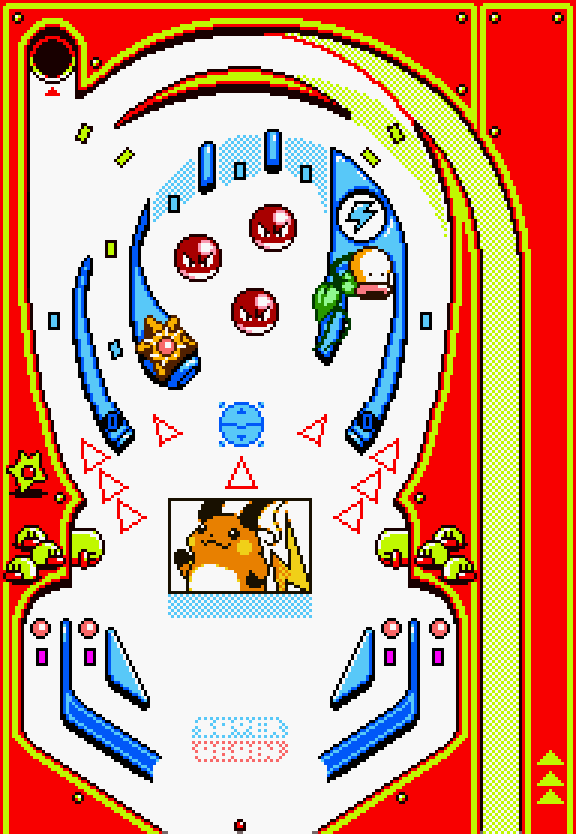
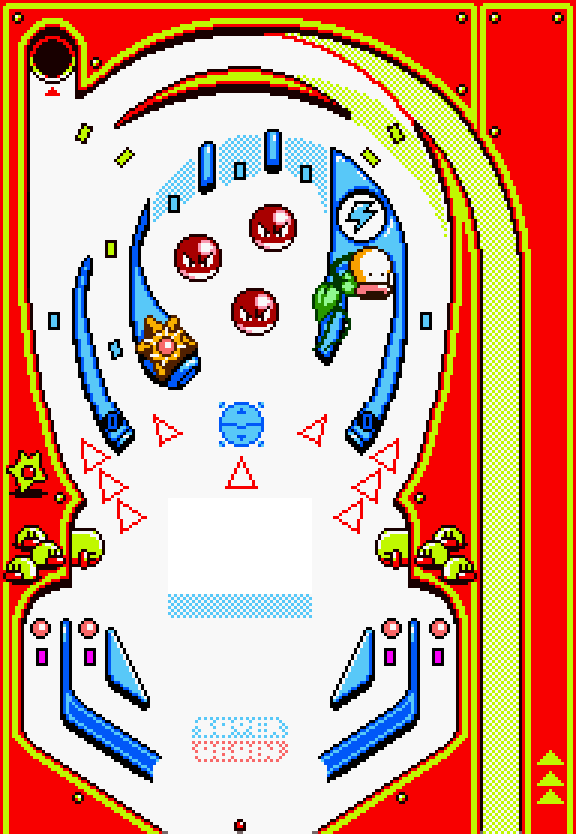
Some animations added

Changed region(s): [[0.2812, 0.5923, 0.5625, 0.717]]

diff --git a/ModuleSceneIntro.cpp b/ModuleSceneIntro.cpp
@@ -12,7 +12,7 @@
 
 ModuleSceneIntro::ModuleSceneIntro(Application* app, bool start_enabled) : Module(app, start_enabled)
 {
-	pinball_tex = dugtrio_tex = NULL;
+	pinball_tex = dugtrio_tex = pikachu_tex = starmie_tex = panel_bor_tex = panel_tex = NULL;
 	ray_on = false;
 	sensed = false;
 }
@@ -37,6 +37,10 @@ bool ModuleSceneIntro::Start()
 	//Loading Textures
 	pinball_tex = App->textures->Load("pinball/images/Pinball.png");
 	dugtrio_tex = App->textures->Load("pinball/images/dugtrio.png");
+	pikachu_tex = App->textures->Load("pinball/images/pikachu.png");
+	starmie_tex = App->textures->Load("pinball/images/starmie.png");
+	panel_bor_tex = App->textures->Load("pinball/images/border.png");
+	panel_tex = App->textures->Load("pinball/images/Panel.png");
 	
 	//Adding Animations
 	AddAnimations();
@@ -61,6 +65,10 @@ bool ModuleSceneIntro::CleanUp()
 
 	App->textures->Unload(dugtrio_tex);
 	App->textures->Unload(pinball_tex);
+	App->textures->Unload(pikachu_tex);
+	App->textures->Unload(starmie_tex);
+	App->textures->Unload(panel_bor_tex);
+	App->textures->Unload(panel_tex);
 
 	return true;
 }
@@ -99,6 +107,18 @@ update_status ModuleSceneIntro::Update()
 	//Left dugtrio animation
 	App->renderer->Blit(dugtrio_tex, 0, 500, &(Dugtrio_left.GetCurrentFrame()));
 
+	//Pikachu animation
+	App->renderer->Blit(pikachu_tex, 20, 780, &(Pikachu.GetCurrentFrame()));
+	App->renderer->Blit(pikachu_tex, 420, 780, &(Pikachu.GetCurrentFrame()));
+
+	//Starmie animation
+	App->renderer->Blit(starmie_tex, 0, 450, &(Starmie.GetCurrentFrame()));
+
+	//Panel Border Animation
+	App->renderer->Blit(panel_bor_tex, 168, 498, &(panel_border.GetCurrentFrame()));
+
+	//Panel Animation
+	App->renderer->Blit(panel_tex, 171, 501, &(panel.GetCurrentFrame()));
 	// ----------------------------------------------------------
 
 	// RESPAWN BALL	--------------------------------------------
@@ -158,5 +178,54 @@ void ModuleSceneIntro::AddAnimations()
 	Dugtrio_left.PushBack({ 225, 120, 69, 90 });
 	Dugtrio_left.loop = true;
 	Dugtrio_left.speed = 0.05f;
+
+	//Pikachu Animation
+	Pikachu.PushBack({   0, 0, 48, 48 });
+	Pikachu.PushBack({  54, 0, 42, 48 });
+	Pikachu.PushBack({ 102, 6, 45, 42 });
+	Pikachu.loop = true;
+	Pikachu.speed = 0.05f;
+
+	//Starmie Animation
+	Starmie.PushBack({ 0, 0, 54, 48 });
+	Starmie.PushBack({ 60, 0, 54, 48 });
+	Starmie.loop = true;
+	Starmie.speed = 0.01f;
+
+	//Panel Border Animation
+	panel_border.PushBack({  0,  0, 144, 96 });
+	panel_border.PushBack({ 154, 0, 144, 96 });
+	panel_border.PushBack({ 304, 0, 144, 96 });
+	panel_border.loop = true;
+	panel_border.speed = 0.015f;
+
+	//Panel Animation
+	panel.PushBack({   0,   0, 138, 90 }); 
+	panel.PushBack({   0, 100, 138, 90 });
+	panel.PushBack({   0, 200, 138, 90 });
+	panel.PushBack({   0, 300, 138, 90 });
+	panel.PushBack({   0, 400, 138, 90 });
+	panel.PushBack({   0, 500, 138, 90 });
+	panel.PushBack({ 148,   0, 138, 90 });
+	panel.PushBack({ 148, 100, 138, 90 });
+	panel.PushBack({ 148, 200, 138, 90 });
+	panel.PushBack({ 148, 300, 138, 90 });
+	panel.PushBack({ 148, 400, 138, 90 });
+	panel.PushBack({ 148, 500, 138, 90 });
+	panel.PushBack({ 296,   0, 138, 90 });
+	panel.PushBack({ 296, 100, 138, 90 });
+	panel.PushBack({ 296, 200, 138, 90 });
+	panel.PushBack({ 296, 300, 138, 90 });
+	panel.PushBack({ 296, 400, 138, 90 });
+	panel.PushBack({ 296, 500, 138, 90 });
+	panel.PushBack({ 444,   0, 138, 90 });
+	panel.PushBack({ 444, 100, 138, 90 });
+	panel.PushBack({ 444, 200, 138, 90 });
+	panel.PushBack({ 444, 300, 138, 90 });
+	panel.PushBack({ 444, 400, 138, 90 });
+	panel.PushBack({ 444, 500, 138, 90 });
+	panel.loop = true;
+	panel.speed = 0.0025f; 
+
 }
 

diff --git a/ModuleRender.cpp b/ModuleRender.cpp
@@ -50,21 +50,6 @@ update_status ModuleRender::PreUpdate()
 // Update: debug camera
 update_status ModuleRender::Update()
 {
-	/*
-	int speed = 3;
-
-	if(App->input->GetKey(SDL_SCANCODE_UP) == KEY_REPEAT)
-		App->renderer->camera.y += speed;
-
-	if(App->input->GetKey(SDL_SCANCODE_DOWN) == KEY_REPEAT)
-		App->renderer->camera.y -= speed;
-
-	if(App->input->GetKey(SDL_SCANCODE_LEFT) == KEY_REPEAT)
-		App->renderer->camera.x += speed;
-
-	if(App->input->GetKey(SDL_SCANCODE_RIGHT) == KEY_REPEAT)
-		App->renderer->camera.x -= speed;
-	*/
 	return UPDATE_CONTINUE;
 }
 

diff --git a/ModuleSceneIntro.h b/ModuleSceneIntro.h
@@ -39,6 +39,10 @@ public:
 	//Animations
 	Animation Dugtrio_left;
 	Animation Dugtrio_right;
+	Animation Pikachu;
+	Animation Starmie;
+	Animation panel_border;
+	Animation panel;
 	Animation* current_animation = nullptr;
 
 	bool sensed;
@@ -46,6 +50,10 @@ public:
 	SDL_Texture* pinball_tex;
 	SDL_Texture* bouncer_tex;
 	SDL_Texture* dugtrio_tex;
+	SDL_Texture* pikachu_tex;
+	SDL_Texture* starmie_tex;
+	SDL_Texture* panel_bor_tex;
+	SDL_Texture* panel_tex;
 
 	uint bonus_fx;
 	p2Point<int> ray;

diff --git a/ModulePhysics.cpp b/ModulePhysics.cpp
@@ -494,7 +494,7 @@ update_status ModulePhysics::PostUpdate()
 				{
 					b2CircleShape* shape = (b2CircleShape*)f->GetShape();
 					b2Vec2 pos = f->GetBody()->GetPosition();
-					App->renderer->DrawCircle(METERS_TO_PIXELS(pos.x), METERS_TO_PIXELS(pos.y), METERS_TO_PIXELS(shape->m_radius), 255, 255, 255);
+					App->renderer->DrawCircle(METERS_TO_PIXELS(pos.x), METERS_TO_PIXELS(pos.y), METERS_TO_PIXELS(shape->m_radius), 0, 0, 0);
 				}
 				break;
 

diff --git a/ModulePlayer.cpp b/ModulePlayer.cpp
@@ -256,15 +256,7 @@ update_status ModulePlayer::Update()
 
 	// ----------------------------------------------------------
 
-	//Reseting Score when losing
-	if (tries <= 0)
-	{
-		score = 0;
-	}
-
-	// ---------------------------------------------------------
-
-
+	
 	return UPDATE_CONTINUE;
 }
 
